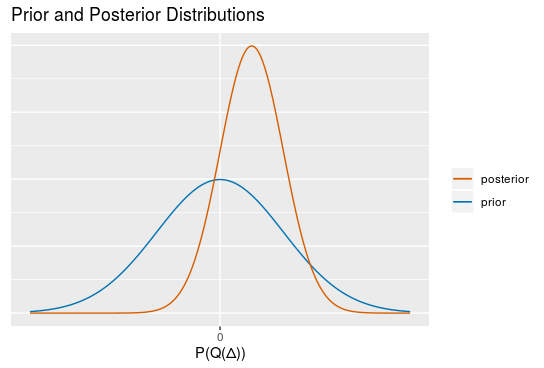
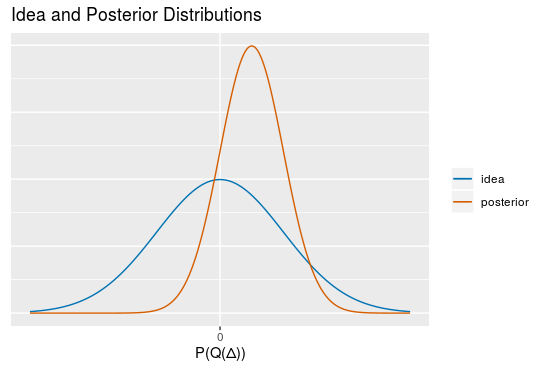
update articles

Changed region(s): [[0.0, 0.0, 0.5, 0.0598], [0.8438, 0.538, 0.9688, 0.5679], [0.8438, 0.4783, 0.9688, 0.5082]]

diff --git a/_posts/2019-12-05-ab-tests-make-sense.md b/_posts/2019-12-05-ab-tests-make-sense.md
@@ -15,44 +15,56 @@ This post is Part Two of a three-part series on Randomized Controlled Trials (RC
 
 ---
 
-If your job or hobby involves relating statistical results to people with less than a graduate degree in statistics, this post is for you. What if I told you you'd never have to explain a p-value again? If you're in the business of A/B testing: what if I told you you didn't have to say "no" when somebody asks you "what's the probability that the new is better than the old thing?" Maybe you're not ready to drink the Kool-Aid, but are you at least curious about the flavor?
+If your job or hobby involves relating statistical results to people with less than (or equal to) a graduate degree in statistics, this post is for you. What if I told you you'd never have to explain a p-value again? If you're in the business of A/B testing: what if I told you you didn't have to say "no" when somebody asks you "what's the probability that the new is better than the old thing?" Maybe you're not ready to drink the Kool-Aid, but are you at least curious about the flavor?
 
-Yes, this is a Bayesian puff piece. But before you go, let me assure you there isn't a single mathematical equation in what follows; you won't even see the famous theorem. If it was a tour of New York it wouldn't even stop at Times Square. No, this post is merely a correction to 2 years of running A/B tests the wrong way.
+Here's my basic thesis: expressing experimental results in terms of a posterior distribution on the parameter of interest is an extremely appealing feature of Bayesian statistics. Further, the problems arising from sensitivity to Bayesian priors are far, far smaller than the problems arising from unintuitive results from frequentist hypothesis tests in practical settings. I  argue rhetorically rather than mathematically in what follows, and in so doing outline some of the benefits of a Bayesian approach to A/B testing. Of course, your mileage may vary, and my perspective is largely a response to frustrations arising from trying to jam frequentist statistics sideways into business workflows.
 
-Here's a spoiler: the problems arising from sensitivity to priors are far, far smaller than the problems arising from unintuitive results in practical settings. I don't argue this point mathematically, but rather rhetorically outline some of the benefits of a Bayesian approach to A/B testing. Of course, your mileage may vary, and my perspective is largely a response to frustrations arising from trying to jam frequentist statistics sideways into business workflows.
+## Frequentist vs. Bayesian
 
-## A Better Way
+Imagine we wish to run an A/B test to estimate $\Delta$, or the difference in terms of some parameter between the A and B arms of the test. If it helps, say A and B are different versions of a webpage, and $\Delta$ is the difference in clickthrough rate (CTR), but the details of A, B, and $\Delta$ are unimportant for what follows.
 
-What frequentist A/B testing intentionally leaves out is context. I recommend a Bayesian framework to A/B testing that includes relevant context such as the decision being made and the environment it’s being made in. In the traditional Bayesian sense, this might also mean including human or empirical expectations for the outcome of the experiment being conducted in the form of a prior.
+A frequentist A/B test would estimate $\hat{\Delta}$ and compare it to a "null distribution," or what you'd expect to observe under the "null hypothesis" that $\Delta = 0$. If $\hat{\Delta}$ was unlikely under the null hypothesis - say the probability of observing $\hat{\Delta}$ or a value more extreme was less than 5% - we'd "reject the null" and conclude that A and B were "significantly" (as in statistically) different. Specifically, the observed differences between A and B were unlikely to be due to chance alone.
 
-Critics argue that this makes the analysis subjective, and I would counter with two points: 1) it should be subjective, and 2) it is no more subjective than the statistical significance threshold of p=0.05. To be fair, the danger of human bias may be far greater in certain academic disciplines where frequentist A/B testing is still the norm. This is not to imply that A/B testing is not serious business outside of academia, rather it is an attempt to shape the statistical methodology to the context in which it is applied. This has several practical benefits, some of which are mathematical and some of which are cultural.
+A Bayesian A/B test would estimate $P(\Delta \| D)$, where D represents the data, based on the following equation:
 
-## Mathematical Benefits
+$$P(\Delta | D) = \frac{P(D | \Delta)P(\Delta)}{P(D)}$$
 
-Bayesian analysis of A/B test results allows us to construct a posterior distribution for the difference between A and B. This is useful by itself because you can integrate the posterior from 0 to the right to determine the probability that B is better than A (assuming you constructed the posterior as $P(\mu_B - \mu_A)$. This probability can be used in cost benefit analyses to construct an expected value for each possible outcome - that is, we either roll out A or we roll out B.
+which is usually written as
 
-$$\int_{0}^{\infty} P(\mu_B - \mu_A)$$
+$$P(\Delta | D) \propto P(D | \Delta)P(\Delta)$$
 
-We can take this a step further by adding a loss or objective function to the posterior distribution. This allows us to express the posterior in terms of the bottom line, not some intermediate metric, which aren't always the same. This can be helpful when the bottom line is not symmetric around 0 impact, for example if small gains are worth risking large losses. If we set $\Delta = \mu_B - \mu_A$, and express our revenue gain as a function of $\Delta$ as $Q$, our expected gain from rolling out B is
+where $\propto$ means "is proportional to." $P(\Delta \| D)$ is what we want, and is the **posterior** distribution of $\Delta$ given the data we've observed. To get that, we need two things: the **likelihood** of the data given $\Delta$, and a **prior** distribution on $\Delta$.
 
-$$ \int_{\Delta} Q(\Delta) P(\Delta) d\Delta$$
+I won't go into the details of how these tests are solved (there are plenty of other resources out there), but I want to highlight the key differences between frequentist and Bayesian tests because these differences form the basis for the rest of my argument. For that reason, it's worth pointing them out explicitly:
 
-And if we write $Q$ in terms of Dollars, we can even subtract the difference in cost (expressed as a function $C$) of a full scale implementation of B versus A. So here is our expected profit of rolling out B:
+**Difference 1:** *Bayesian analysis requires choice of a prior distribution*
 
-$$\int_{\Delta} Q(\Delta) P(\Delta) d\Delta - [C(B) - C(A)]$$
+**Difference 2:** *Bayesian analysis produces a posterior distribution on the parameter of interest, whereas frequentist analysis produces a p-value representing the probability of observing what you did assuming a certain statistical model (in practice, one in which there is no difference between A and B)*
 
-I bet your P-values can't do that!
+## Choosing Priors
 
-## Cultural Benefits
+Frequentist hypothesis (including A/B) tests are intentionally devoid of context. This means that they make no distinction between testing for a relationship between genes and IQ or jeans and IQ[^1]. One could argue that a researcher should screen for uninformative tests up front, but the mathematical framework has no way of accounting for it, and in practice this screening takes place less than you'd think.
 
-I haven't discussed in detail the process of constructing $P(\Delta)$, but one important step is choosing a "prior distribution" on $\Delta$. This is basically your belief - before the experiment runs - of what values $\Delta$ might take. Subject matter experts may be consulted during this phase, and their opinion incorporated in the form of this prior distribution. Having a good idea of what $\Delta$ might be before the test can lead to shorter test times, but it also allows stakeholders to feel more comfortable about the testing procedure. Like it or not, data from an experiment is going to be weighed against stakeholders' preconceived notions, and the Bayesian framework gives a convenient way to express that relationship mathematically.
+One important step of Bayesian analysis is choosing a "prior distribution" on $\Delta$. This is basically your belief - before the experiment runs - of what values $\Delta$ might take. Subject matter experts may be consulted during this phase, and their opinion incorporated in the form of this prior distribution. Having a good idea of what $\Delta$ might be before the test can lead to shorter test times, but it also allows stakeholders to feel more comfortable about the testing procedure. Like it or not, data from an experiment is going to be weighed against stakeholders' preconceived notions, and the Bayesian framework gives a convenient way to express that relationship mathematically.
 
-Another major benefit of these mathematical changes is that they express test results in terms that human beings are familiar with. For example, you can make statements of the probability that the new product will make money, or the expected return of the new project. I hypothesize that this will lead to better adoption of testing practices, but I haven't verified with my own experience.
+Bayesian statistics doesn't solve all of these problems, but they do - in my opinion - move us in the right direction. For one, they include relevant context such as the decision being made and the environment it’s being made in. In the traditional Bayesian sense, this might also mean including human or empirical expectations for the outcome of the experiment being conducted in the form of a prior. Critics argue that this makes the analysis subjective, and I would counter with two points: 1) it should be subjective, and 2) it is no more subjective than the statistical significance threshold of p=0.05.
 
-On the other hand, your mileage may vary. The choice of prior might be just as confusing to stakeholders as explaining a p-value or choosing a minimum detectable effect. If this should be the case, practitioners should go back to the drawing board and establish a testing framework that works for everyone. Remember to optimize towards better decision making, not a particular method for accomplishing that end. These mathematical changes are only beneficial insofar as they lead to real change within the organization.
+## No More P-Values
+
+Furthermore, a significance test by definition informs a binary decision between "significant" and "not significant". This discretization of a continuous value is a mistake I see and make so often I'm starting to wonder if it isn't a named cognitive bias. Nevertheless, it leads to all sorts of problems, including the censoring of scientific research that might be just on the other side of a significance criterion, as well as misleading the public that "statistically significant" means anything of real importance.
+
+Additionally, the product of a Bayesian test is a "posterior distribution," or a direct representation of the possible values your parameter (e.g. the difference between A and B) might take and their associated probabilities. This is pretty much always desirable over p-values or confidence intervals, which only give indirect information about the parameter of interest (e.g. here are the possible values of the parameter vs. here are the possible values of the population parameter for which the observed values of that parameter aren't extremely unlikely).
+
+To be fair, frequentist tests aren't as inherently flawed as their realizations make them out to be - they are simply more prone to abuse. Also, the danger of human bias and subjectivity of priors may be far greater in certain academic disciplines where frequentist A/B testing is still the norm. This is not to imply that A/B testing is not serious business outside of academia, rather it is an attempt to shape the statistical methodology to the context in which it is applied.
 
 ## Conclusions
 
 Mathematically, a Bayesian approach to A/B testing allows us to make inferences on the probability that A is better than B or vice versa. It also allows us to construct a distribution of the possible values for the difference between A and B. Furthermore, by mapping this probability distribution to a profit/revenue space, this allows us to make inferences in terms of dollars, e.g. “what is the probability that A will generate more than $1000 additional revenue?” or “what is the probability that B is profitable?”
 
 Culturally, by including context in statistical analyses, human experts become first-class citizens and empirical analyses become more accessible. A priori assumptions are framed in terms of "what do you expect to see" rather than "what is the smallest effect that you wish to be able to detect," while results are expressed in language that stakeholders expect and desire to see. Furthermore, keeping the bottom line (e.g. profits or lives saved) as the focus of the test will guide decision makers to optimize for those things directly rather than maximizing short-term incentives.
+
+On the other hand, your mileage may vary. The choice of prior might be just as confusing to stakeholders as explaining a p-value or choosing a minimum detectable effect. If this should be the case, practitioners should go back to the drawing board and establish a testing framework that works for everyone. Remember to optimize towards better decision making, not a particular method for accomplishing that end. These mathematical changes are only beneficial insofar as they lead to real change within the organization.
+
+## Footnotes
+
+[^1]: I know, I cringed too

diff --git a/_posts/2019-12-06-economic-framework-for-ab-testing.md b/_posts/2019-12-06-economic-framework-for-ab-testing.md
@@ -15,13 +15,35 @@ This post is Part Three of a three-part series on Randomized Controlled Trials (
 
 It's easy to get on the A/B testing hype train, but the benefits are actually a bit more nuanced than they might seem. "Knowing what works" seems like a good idea, and indeed almost always is. Unfortunately, A/B testing only really tells us what works with any certainty if we have enough data. Gathering this data takes time, and money, and money in the form of time (opportunity cost).
 
+## Bayesian Testing
+
+Bayesian analysis of A/B test results allows us to construct a posterior distribution for the difference between A and B. This is useful by itself because you can integrate the posterior from 0 to the right to determine the probability that B is better than A (assuming you constructed the posterior as $P(\mu_B - \mu_A)$. This probability can be used in cost benefit analyses to construct an expected value for each possible outcome - that is, we either roll out A or we roll out B.
+
+$$\int_{0}^{\infty} P(\mu_B - \mu_A)$$
+
+We can take this a step further by adding a loss or objective function to the posterior distribution. This allows us to express the posterior in terms of the bottom line, not some intermediate metric, which aren't always the same.[^3] This can be helpful when the bottom line is not symmetric around 0 impact, for example if small gains are worth risking large losses. If we set $\Delta = \mu_B - \mu_A$, and express our revenue gain as a function of $\Delta$ as $R$, our expected gain from rolling out B is
+
+$$ \int_{\Delta} R(\Delta) P(\Delta) d\Delta$$
+
+And if we write $R$ in terms of Dollars, we can even subtract the difference in cost (expressed as a function $C$) of a full scale implementation of B versus A. So here is our expected profit of rolling out B:
+
+$$\int_{\Delta} R(\Delta) P(\Delta) d\Delta - [C(B) - C(A)]$$
+
+But we can simplify by choosing a function $Q = R(\Delta) - [C(B) - C(A)]$ that represents *profit* of rolling out B, and write the expected profit as
+
+$$\int_{\Delta} Q(\Delta) P(\Delta) d\Delta$$
+
+I bet your P-values can't do that!
+
 ## Benefits of Testing
 
 The direct benefits of testing are strictly in terms of information gain. That is, a (Bayesian) test gives you a distribution of the expected effect of a proposed program, product, or policy. This only becomes valuable when it's used to make a decision.
 
 ### Reactive testing
 
-Imagine there is some set of ideas that you plan to implement. Define $P( Q(\Delta))$ as the distribution of possible impacts of these ideas to your bottom line. Before running a test, you assume that a certain idea has an expected return according to this distribution. We center at zero in this illustration to propose that ideas are equally divided amongst good and bad.
+Imagine there is some set of ideas that you plan to implement. Define the "idea distribution" $P( Q(\Delta))$ as the distribution of possible impacts of these ideas to your bottom line. This is similar to the traditional Prior distribution from Bayesian inference, but instead of being chosen for mathematical convenience it is a true, unobservable distribution of possible outcomes.
+
+Before running a test, you assume that a certain idea has an expected return according to this distribution. We center at zero in this illustration to propose that ideas are equally divided amongst good and bad.
 
 ![](/figs/2019-12-04-economic-framework-ab-tests/priordist.png)
 
@@ -29,24 +51,76 @@ Data from an RCT (or any other method) updates our beliefs about the efficacy of
 
 ![](/figs/2019-12-04-economic-framework-ab-tests/priorandpostdists.png)
 
-The benefits from testing can be thought of as the difference between these distributions.
+The benefits from (reactive) testing can be thought of as the difference between these distributions. Intuitively, this corresponds to the difference in your knowledge of how effective an idea is before and after gathering data. RCTs are an efficient way of shrinking the variance of the posterior, but not the only way.
 
-Further assume that your testing procedure perfectly eliminates the chances of implementing anything with negative impact, and doesn't eliminate anything with positive impact (we'll relax this assumption later). Your benefit of testing then is the avoided cost of every bad idea that you didn't roll out.
-
+If the counterfactual is simply rolling out every idea without testing, then **reactive testing is really only valuable when it stops bad ideas** (good ideas would have rolled out anyway). The benefits of reactive testing then are the losses avoided from those bad ideas.
 
 ![](/figs/2019-12-04-economic-framework-ab-tests/priorandpostwithintegral.png)
 
-You can then relax the assumption that testing results in perfect decisions, by adding a "test error" term that includes the effects of rolling out slightly bad ideas and not rolling out slightly good ones.
+If we define the prior profit distribution as $Pr(Q(\Delta))$ and the posterior as $Po(Q(\Delta))$, we can express this as
 
-To be clear, we're making the assumption that the counterfactual to testing is that you'd simply implement the same set of ideas without checking them. In reality, testing allows you to try bolder ideas (proactive testing), so it actually widens the prior distribution as well.
+$$\int_{-\infty}^{0} Pr(Q(\Delta)) - Po(Q(\Delta)) d\Delta $$
 
+If you totally nail your choice of prior, meaning that it exactly reflects the true idea distribution, you can write your expected loss aversion as
 
+$$\int_{-\infty}^{0} \left[ P(\Delta) - \frac{P(D | \Delta) P(\Delta)}{P(D)} \right] Q(\Delta) d\Delta $$
+
+or
+
+$$\int_{-\infty}^{0} \left[ 1 - \frac{P(D | \Delta)}{P(D)} \right] P(\Delta)Q(\Delta) d\Delta $$
+
+where $P(D)$ is an artifact of Bayes' Theorem that represents the unintuitive quantity "probability of the data." This mostly serves to ensure the posterior is a proper PDF (i.e. it integrates to 1).
+
+To be clear, we're making the assumption that the counterfactual to testing is that you'd simply implement the same set of ideas without checking them. In reality, testing allows you to try bolder ideas (proactive testing), so it actually widens the idea distribution as well.
 
 ## Costs of testing
 
+If the only way to benefit from reactive testing is by stopping bad ideas, that means we're applying testing to good ideas when we really don't need to be. Unfortunately we can't tell a priori which ideas and good and which are bad, so we end up with a tradeoff between delaying good ideas and stopping bad ones.
+
+If our prior idea distribution is indeed centered at zero, it's obviously beneficial to temporarily delay good ideas at the cost of stopping the bad ones forever. If our idea distribution is shifted to the right (i.e. more good ideas than bad), however, the tradeoff becomes more tricky. The costs and benefits of testing then are a function of where that idea distribution is actually centered (how many bad ideas are we going to avoid), and how much opportunity cost there is to testing (how long our testing procedure takes).
+
+Most people mistakenly assume that their idea distribution is very far to the right (i.e. that they have really good ideas).[^1] Consider the results of one of my favorite studies on this subject:
+
+> QualPro has tested the real-world impact of over 150,000 business improvement ideas over the past three decades and discovered that most business ideas do not work. Our work with over 1,000 companies shows that no matter the source (executives, technical experts, front-line workers, customers, vendors, janitors) 75 percent of their ideas  will  not  improve  results,  and  nobody  can  accurately  predict which 25 percent are the most powerful ideas. Believe it or not, front-line  employees are just as likely as CEOs to suggest ideas that make measurable impacts on the bottom line.
+
+\- *Holland and Cochrane, 2005*[^2]
+
+The opportunity cost to delaying a truly good idea is the value of the idea over the test period times the sampling proportion of that arm of the test. For simplicity, assume all A/B tests are run with 50/50 splits. When an Idea is positive, the cost of the test is
+
+$$C(Test | Idea, t) = \frac{1}{2} * Q(Idea) * t$$
+
+and 0 otherwise. Using the $\Delta$ notation from before, a positive idea corresponds to $\Delta > 0$, so we can write in terms of $\Delta$ as such:
+
+ $$C(Test | \Delta, t) = \frac{1}{2} * Q(\Delta) * t$$
+
+This is nice but useless, because we don't know $\Delta$ before the experiment, so we can use our prior/posterior distribution framework from before.
+
+ $$E(C(Test | t)) = \int_{0}^{\infty} \frac{1}{2} Pr(Q(\Delta)) t d\Delta$$
+
+ So we can see that when $\Delta$ tends positive, our costs go up, and when it tends negative, they go down. When $t$ is long, costs also go up, but that story is a little more complicated.
+
 ## Putting it Together
+
+The total value of testing can be expressed as
+
+$$
+E(Q(Testing) | t, Pr) =
+\int_{-\infty}^{0} Pr(Q(\Delta)) - Po(Q(\Delta)) d\Delta -
+\int_{0}^{\infty} \frac{1}{2} Pr(Q(\Delta)) t d\Delta
+$$
+
+So how to choose $t$? $t$ directly affects the variance of $Po(Q)$, so the formulation becomes a little complicated. Furthermore, it really doesn't matter, because this formula is based on the immeasurable Prior Distribution of ideas.
 
 
 ## Conclusion
 
 In sum, there is an opportunity cost to delaying good ideas from reaching 100% implementation, as well as rejecting good ideas that fail to meet (arbitrary) significance criteria.
+
+## Footnotes
+
+[^3]: See [Goodhart's Law](https://en.wikipedia.org/wiki/Goodhart%27s_law)
+
+[^1]: See Section 2 of  [this paper](https://exp-platform.com/Documents/2013%20controlledExperimentsAtScale.pdf) and Section 5.1 of [this paper](https://ai.stanford.edu/~ronnyk/ExPThinkWeek2009Public.pdf)
+
+[^2]: Holland, C. W., & Cochran, D. (2005). Breakthrough Business Results With MVT: A Fast, Cost-Free, "Secret Weapon" for Boosting Sales,
+Cutting Expenses, and Improving Any Business Process

diff --git a/_posts/2019-12-04-rethinking-ab-testing.md b/_posts/2019-12-04-rethinking-ab-testing.md
@@ -17,11 +17,11 @@ This post is Part One of a three-part series on Randomized Controlled Trials (RC
 
 A/B Testing is as simple as it sounds: run two different versions of some program or product in parallel, randomly assign users to one or the other version, and measure some metric(s) of interest. If you've done it right, differences in that metric will either be due to random chance or to the differences in the program or product.[^2] If you can rule out random chance[^3], you've established a causal link between changes in program/product and changes in metric. Once you establish causality, you can accurately predict what will happen in the future. If you can predict what will happen in the future, you can make better decisions to optimize that future state. It's really as simple as that.
 
-Upon closer inspection however you can break A/B testing into two varieties according to why you hope to know what will happen in the future.
+Upon closer inspection however I find it useful to break A/B testing into two "varieties" according to why you hope to know what will happen in the future.
 
-**Retroactive A/B Testing** can help us avoid losses from rolling out demonstrably bad ideas. If a program degrades metrics during testing, we know that keeping it around will have a negative marginal effect on those metrics, and we shouldn't do so. We must avoid the sunk-cost fallacy in this case and recognize that the best thing for us to do is to cut our losses and revert to the status quo.
+**Retroactive A/B Testing** - AKA "did you remember to A/B test this thing?" - can help us avoid losses from rolling out demonstrably bad ideas. If a program degrades metrics during testing, we know that keeping it around will have a negative marginal effect on those metrics, and we shouldn't do so. We must avoid the sunk-cost fallacy in this case and recognize that the best thing for us to do is to cut our losses and revert to the status quo.
 
-**Proactive A/B Testing** can help to increase potential gains by reducing barriers to testing new ideas. When it is easy and expected that ideas will be tested, and that some will fail and that's ok, we can take more risks in what we choose to put in front of customers. If we accept the premise that business decisions are closer to coin-flips than prescient predictions, we can spend less time thinking about which ideas are good or bad (which humans are generally pretty bad at) and more time coming up with ideas to test (which humans are generally pretty good at). In this sense, proactive testing is more of a cultural change than anything else.
+**Proactive A/B Testing** - AKA "we should A/B test this new idea every step of the way" - can help to increase potential gains by reducing barriers to testing new ideas. When it is easy and expected that ideas will be tested, and that some will fail and that's ok, we can take more risks in what we choose to put in front of customers or stakeholders. If we accept the premise that business decisions are closer to coin-flips than prescient predictions[^8], we can spend less time thinking about which ideas are good or bad (which humans are generally pretty bad at) and more time coming up with ideas to test (which humans are generally pretty good at). In this sense, proactive testing is more of a cultural change than anything else.
 
 ![](/figs/2019-11-25-ab-tests-make-sense/ab-profit.png)
 
@@ -29,7 +29,7 @@ Not only can testing help reduce losses and increase gains, it generates a wealt
 
 ## Pitfalls of A/B Testing
 
-In my experience, RCTs including A/B tests are often dogmatized and not thought of in terms of their costs[^4] and benefits[^5]. I hypothesize that this is because the people who first attempt to push for A/B testing at an organization realize that - if the idea takes off - they are positioned to become subject matter experts in a niche business function. Therefore, their personal incentives are not to push the most valuable methodology, but to push the one that they are a relative expert in. If we seriously want to make a difference however, we should be realistic about the pitfalls and shortcomings of running randomized controlled trials. Further, we should be rigorous in assessing each specific use case individually to understand where it makes sense to apply this methodology and where it does not, as opposed to utilizing RCTs as the gold standard across any and all use cases.
+In my experience, RCTs including A/B tests are often dogmatized and not thought of in terms of their costs[^4] and benefits[^5]. I hypothesize that this is partially because the people who first attempt to push for A/B testing at an organization realize that - if the idea takes off - they are positioned to become subject matter experts in a niche business function. In other words, their personal incentives are not to push the most valuable methodology, but to push the one that they are a relative expert in. If we seriously want to make a difference, however, we should be realistic about the pitfalls and nuances of running randomized controlled trials. Further, we should be rigorous in assessing each specific use case individually to understand where it makes sense to apply this methodology and where it does not, as opposed to utilizing RCTs as the gold standard across any and all use cases.
 
 One specific pitfall of traditional frequentist A/B testing is that the analytic methodology does not reconcile well with typical program or product lifecycles. A frequentist A/B test starts with calculating a sample size based on a “minimum detectable effect” and expected base rates and/or variances for A and B. This usually requires access to historical data which even Subject Matter Experts rarely have or know where to find, and almost everybody but those trained in statistics typically become confused when informed of the counterintuitive fact that the smaller the effect they hope to discover, the longer they’ll have to run the test.[^6]
 
@@ -42,9 +42,9 @@ P-values don’t even attempt to answer this question. Frequentist A/B test outc
 There exist plenty of arguments in favor of using RCTs to measure and improve outcomes. Many of these, however, evoke unrealistic expectations of the benefits and avoid discussion of the costs. These well intentioned arguments lead to gaps in supposed experts' knowledge and misapplication of A/B test methodology to cases where it causes more harm than good. In my experience, the shortcomings of A/B testing seem to fall into the following two categories:
 
    1) RCTs are not thought of in terms of their costs and benefits. Costs are undersold and benefits are oversold
-   2) frequentist methodology causes confusion and doesn't yield the answers most are hoping to glean from rigorous testing
+   2) Frequentist methodology causes confusion and doesn't yield the answers most are hoping to glean from rigorous testing
 
-On the other hand, I believe it is possible to work toward solving them. The other articles in this series will address each in turn, and I'm hopeful that I don't come across as skeptical of the RCT in general; I think RCTs are one of the most powerful tools we have to understand a complicated universe. It's precisely because I believe in them that I hope to persuade others of ways to improve them, and to hold a realistic view of their costs and benefits.
+On the other hand, I believe it is possible to work toward solving them. The other articles in this series will address each in turn, and I'm hopeful that I don't come across as skeptical of the RCT in general; I think RCTs are one of the most powerful tools we have to understand a complicated universe. It's precisely *because* I believe in them that I hope to persuade others of ways to improve them, and to hold a realistic view of their costs and benefits.
 
 
 ## Apx: Advice for Practitioners
@@ -62,6 +62,8 @@ In general, remember that empiricism helps us separate correlation from causatio
 [^2]: This is because randomization effectively controls for all other factors. If folks are truly randomly assigned to A or B, there is no reason to believe there could be any other factor systemically influencing the metric differently across the groups. Nevertheless, it's possible to control for additional factors you believe could affect the metric of interest during the analysis phase of an experiment.
 
 [^3]: This is done by means of a statistical test. In most cases, a larger sample reduces the chance of differences being due to random chance, and you can be more certain they're due to changes in the product.
+
+[^8]: More on this later
 
 [^4]: Angus Deaton and Nancy Cartwright expand on misconceptions and misuse of randomized controlled trials in [their paper](https://www.sciencedirect.com/science/article/pii/S0277953617307359).
 
